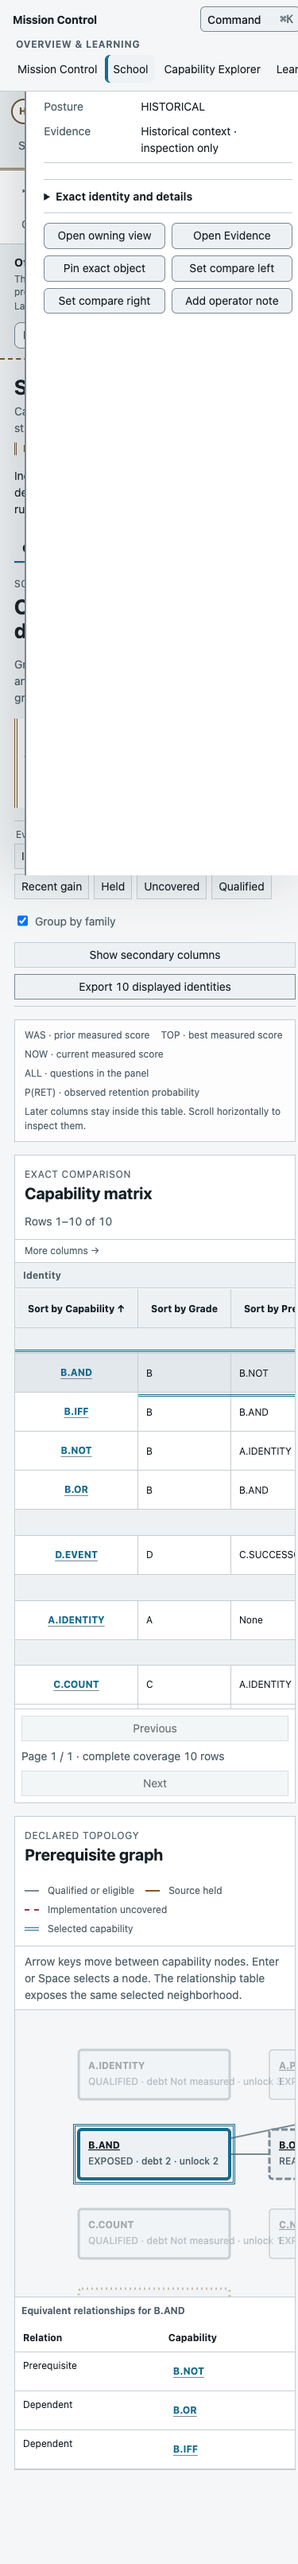
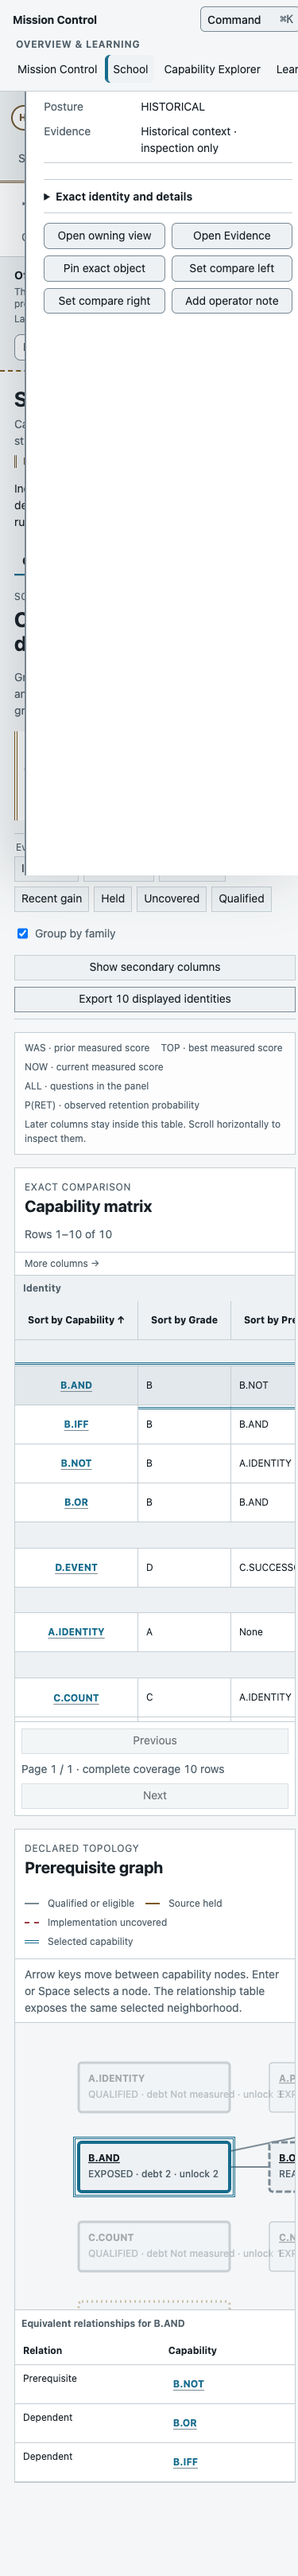
docs(mission-control): refresh investigation visual acceptance

diff --git a/docs/evidence/bamf/MC-INVESTIGATION-1128/visual-qa.md b/docs/evidence/bamf/MC-INVESTIGATION-1128/visual-qa.md
@@ -2,7 +2,7 @@
 
 Issue: #1128
 
-Exact comparative baseline: `44b64de2ee772790924cc20ca12aa4d52441c864`
+Exact comparative baseline: `df57fe448af9c79db8f9a6a2704564baec7e4c84`
 
 The acceptance baseline is the exact unified integration head consumed by the final candidate. An earlier exploratory rendering at `490e86e1a284fd03c3824e0bce656d658df0052c` informed implementation but is not used as final comparative evidence.
 
@@ -20,7 +20,7 @@ The ordinary preview bridge supplies a disconnected/inspection posture. A bounde
 
 | Artifact | Base/head | Theme | Density | Viewport | Posture | Layout result |
 | --- | --- | --- | --- | ---: | --- | --- |
-| `baseline-44b64de2-dark-comfortable-1440.png` | exact baseline `44b64de2` | dark | comfortable | 1440 × 1100 | baseline/disconnected | 1425 px document width; no page overflow |
+| `baseline-df57fe44-dark-comfortable-1440.png` | exact baseline `df57fe44` | dark | comfortable | 1440 × 1100 | baseline/disconnected | 1425 px document width; no page overflow |
 | `after-dark-comfortable-live-1440.png` | candidate | dark | comfortable | 1440 × 1100 | verified-live rendering fixture | `Current · generation 7`; 1425 px document width; no page overflow |
 | `after-dark-comfortable-historical-1440.png` | candidate | dark | comfortable | 1440 × 1100 | explicit historical generation 6 + disconnected defense | `Historical · generation 6`; mutation unavailable; no page overflow |
 | `after-light-compact-defensive-1440.png` | candidate | light | compact | 1440 × 1100 | disconnected defensive | 1425 px document width; no page overflow |
@@ -33,7 +33,7 @@ The exact historical rendering showed the defensive banner `Offline`, `Last veri
 
 The baseline investigation plane permanently exposed more chrome than the target composition calls for. Time controls and forensic/deep-link identity occupied the investigation surface rather than behaving as subordinate disclosure. Inspector identity/detail hierarchy was comparatively flat.
 
-The checked-in exact-base capture is `baseline-44b64de2-dark-comfortable-1440.png`.
+The checked-in exact-base capture is `baseline-df57fe44-dark-comfortable-1440.png`.
 
 ## Candidate observations
 
